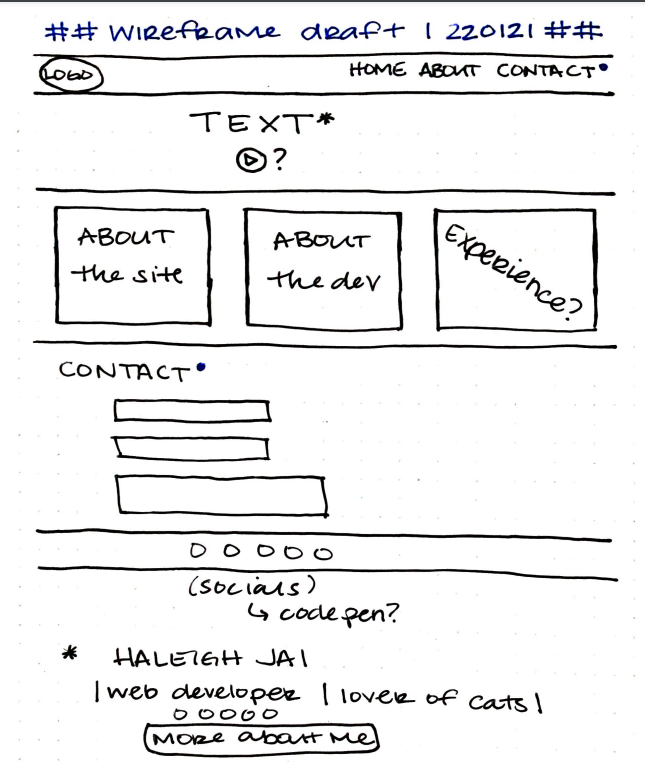
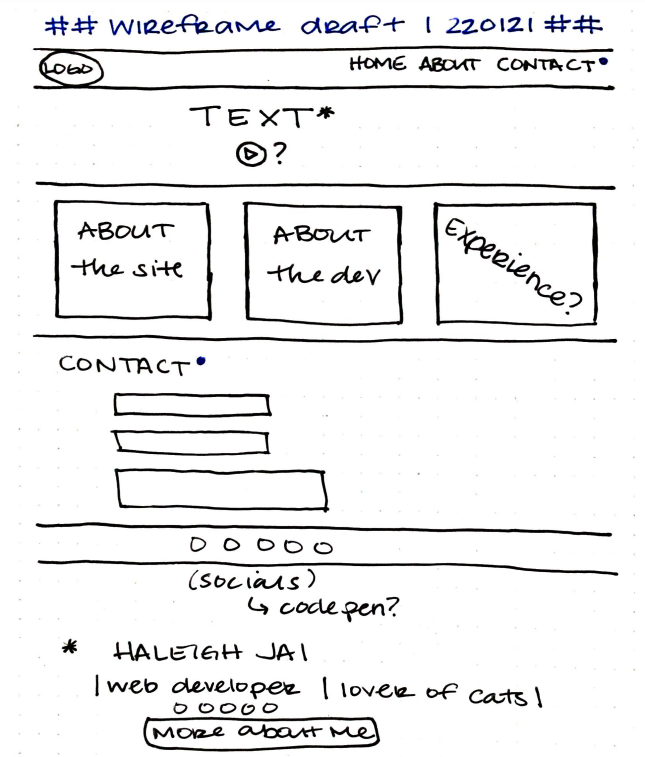
about site section

diff --git a/about.html b/about.html
@@ -89,19 +89,26 @@
     </p>
     <div class="siterow">
         <div class="sitec3">
-            
+            <img src="img/wireframe220121.png" alt="final project wireframe draft one" class="drafts">
         </div>
         <div class="sitec3">
-
+            <img src="img/wiredrafts.png" alt="additional final project wireframe drafts" class="drafts">
         </div>
         <div class="sitec3">
-
+            <img src="img/aboutwire.png" alt="about page wireframe draft" class="drafts">
         </div>
-
-
-
     </div>
-
+    <p class="sitecredits">
+        <span class="credits">Site Credits:</span>
+        <br>
+        This site was built over six weeks (okay, maybe two... one..?) during the Websites for Beginners class hosted by Bitwise Industries and taught by Neptali (Nepts) Montez. This site uses 'Roboto' sans-serif font courtesy of GoogleFonts and features social media icons from FontAwesome. With the exception of the main page hero image and the movie still featured above, all photos are my own. Wireframe images made possible by the beauty of a Rocketbook notebook. Any questions, comments, concerns, and/or --hopefully-- praise can be directed to me via the GoogleForm on the Contact page. Thank you!
+        <!-- <ul>
+            <li class="sitecredits"></li>
+            <li class="sitecredits"></li>
+            <li class="sitecredits"></li>
+            <li class="sitecredits"></li>
+        </ul> -->
+    </p>
 
 
 

diff --git a/css/about.css b/css/about.css
@@ -53,7 +53,7 @@ nav ul a{
 .dev, .site{
     font-size: 42px;
 }
-.column2, .aboutme{
+.column2, .aboutme, .sitecredits{
     font-family: 'Roboto', sans-serif;
     color: #3A475E;
 }
@@ -139,10 +139,25 @@ nav ul a{
 }
 .sitec3{
     width: 29%;
-    border:1px solid #fff;
     margin: 2%;
     float: left;
-    height: 400px;
+    height: 625px;
+}
+.drafts{
+    width: 100%;
+}
+.credits{
+    font-weight: 900;
+    font-size: 40px;
+    text-align: left;
+}
+.sitecredits{
+    font-size: 22px;
+    margin-top: 5%;
+}
+.credits, .sitecredits{
+    margin: 2%;
+    clear: both;
 }
 
 
